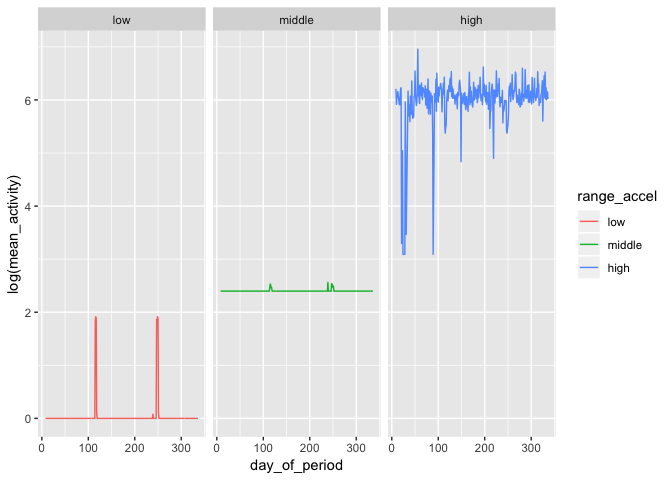
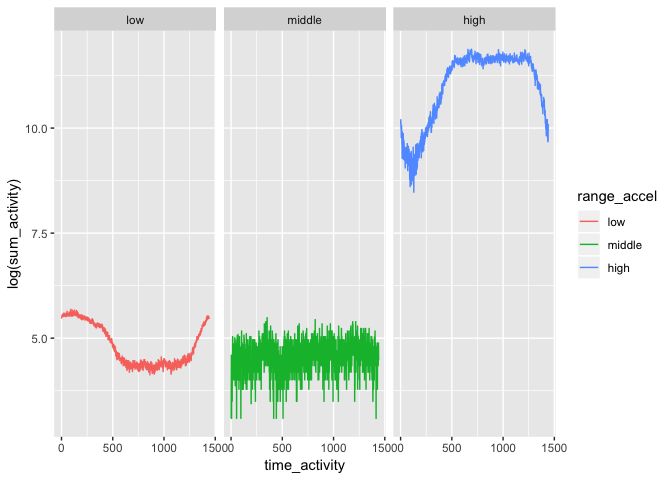
suvived from sierra updating
start to make final report

diff --git a/p8105_mtp_zf2213.md b/p8105_mtp_zf2213.md
@@ -3,6 +3,8 @@ p8105 midterm project
 Zanis Fang, UID: ZF2213
 10/16/2018
 
+**three or four figures would be enough**
+
 ### loading data
 
 ``` r
@@ -124,6 +126,30 @@ acc_subgroup %>%
 ![](p8105_mtp_zf2213_files/figure-markdown_github/cutoff-1.png)
 
 ``` r
+# across a day, sum
+acc_subgroup %>%
+    group_by(time_activity, range_accel) %>% 
+    summarize(sum_activity = sum(accel)) %>% 
+    ggplot(aes(x = time_activity, y = log(sum_activity), group = range_accel, color = range_accel)) +
+      geom_line() +
+      facet_grid(. ~ range_accel)
+```
+
+![](p8105_mtp_zf2213_files/figure-markdown_github/cutoff-2.png)
+
+``` r
+# across a day, middle
+acc_tidy %>%
+    filter(accel > 8, accel < 64) %>%
+    group_by(time_activity) %>% 
+    summarize(sum_activity = sum(accel)) %>% 
+    ggplot(aes(x = time_activity, y = sum_activity)) +
+      geom_line()
+```
+
+![](p8105_mtp_zf2213_files/figure-markdown_github/cutoff-3.png)
+
+``` r
 # middle and low fraction are fluctrating
 
 # across day of the period, mean
@@ -135,7 +161,7 @@ acc_subgroup %>%
       facet_grid(. ~ range_accel)
 ```
 
-![](p8105_mtp_zf2213_files/figure-markdown_github/cutoff-2.png)
+![](p8105_mtp_zf2213_files/figure-markdown_github/cutoff-4.png)
 
 ``` r
 # across day of the period, sum
@@ -150,7 +176,7 @@ acc_subgroup %>%
 
     ## `geom_smooth()` using method = 'loess' and formula 'y ~ x'
 
-![](p8105_mtp_zf2213_files/figure-markdown_github/cutoff-3.png)
+![](p8105_mtp_zf2213_files/figure-markdown_github/cutoff-5.png)
 
 ``` r
 # across day of the period, sum not log
@@ -160,12 +186,19 @@ acc_subgroup %>%
     ggplot(aes(x = day_of_period, y = sum_activity, group = range_accel, color = range_accel)) +
       geom_line() +
       geom_smooth() +
-      facet_grid(. ~ range_accel)
+      facet_grid(. ~ range_accel) +
+      ylim(0, 2000)
 ```
 
     ## `geom_smooth()` using method = 'loess' and formula 'y ~ x'
 
-![](p8105_mtp_zf2213_files/figure-markdown_github/cutoff-4.png)
+    ## Warning: Removed 302 rows containing non-finite values (stat_smooth).
+
+    ## Warning: Removed 196 rows containing missing values (geom_path).
+
+    ## Warning: Removed 4 rows containing missing values (geom_smooth).
+
+![](p8105_mtp_zf2213_files/figure-markdown_github/cutoff-6.png)
 
 ``` r
 # across week
@@ -180,7 +213,7 @@ acc_subgroup %>%
 
     ## `geom_smooth()` using method = 'loess' and formula 'y ~ x'
 
-![](p8105_mtp_zf2213_files/figure-markdown_github/cutoff-5.png)
+![](p8105_mtp_zf2213_files/figure-markdown_github/cutoff-7.png)
 
 ``` r
 # across week X day
@@ -195,4 +228,126 @@ acc_subgroup %>%
 
     ## `geom_smooth()` using method = 'loess' and formula 'y ~ x'
 
-![](p8105_mtp_zf2213_files/figure-markdown_github/cutoff-6.png)
+![](p8105_mtp_zf2213_files/figure-markdown_github/cutoff-8.png)
+
+``` r
+acc_subgroup %>% 
+    arrange(day_of_period)
+```
+
+    ## # A tibble: 473,760 x 8
+    ##     week day    time_activity accel  hour minute day_of_period range_accel
+    ##    <int> <fct>          <int> <dbl> <dbl>  <dbl>         <dbl> <fct>      
+    ##  1     1 Sunday             1     1     0      1             8 low        
+    ##  2     1 Sunday             2     1     0      2             8 low        
+    ##  3     1 Sunday             3     1     0      3             8 low        
+    ##  4     1 Sunday             4     1     0      4             8 low        
+    ##  5     1 Sunday             5     1     0      5             8 low        
+    ##  6     1 Sunday             6     1     0      6             8 low        
+    ##  7     1 Sunday             7     1     0      7             8 low        
+    ##  8     1 Sunday             8     1     0      8             8 low        
+    ##  9     1 Sunday             9     1     0      9             8 low        
+    ## 10     1 Sunday            10     1     0     10             8 low        
+    ## # ... with 473,750 more rows
+
+``` r
+a <- which(acc_subgroup$range_accel == "middle")
+
+for (i in 1:10) {
+     print(count(acc_subgroup[a + i, ], range_accel))
+    }
+```
+
+    ## # A tibble: 3 x 2
+    ##   range_accel     n
+    ##   <fct>       <int>
+    ## 1 low          5404
+    ## 2 middle        410
+    ## 3 high         7618
+    ## # A tibble: 3 x 2
+    ##   range_accel     n
+    ##   <fct>       <int>
+    ## 1 low          5310
+    ## 2 middle        394
+    ## 3 high         7728
+    ## # A tibble: 3 x 2
+    ##   range_accel     n
+    ##   <fct>       <int>
+    ## 1 low          5313
+    ## 2 middle        376
+    ## 3 high         7743
+    ## # A tibble: 3 x 2
+    ##   range_accel     n
+    ##   <fct>       <int>
+    ## 1 low          5433
+    ## 2 middle        437
+    ## 3 high         7562
+    ## # A tibble: 3 x 2
+    ##   range_accel     n
+    ##   <fct>       <int>
+    ## 1 low          5367
+    ## 2 middle        390
+    ## 3 high         7675
+    ## # A tibble: 3 x 2
+    ##   range_accel     n
+    ##   <fct>       <int>
+    ## 1 low          5343
+    ## 2 middle        366
+    ## 3 high         7723
+    ## # A tibble: 3 x 2
+    ##   range_accel     n
+    ##   <fct>       <int>
+    ## 1 low          5523
+    ## 2 middle        369
+    ## 3 high         7540
+    ## # A tibble: 3 x 2
+    ##   range_accel     n
+    ##   <fct>       <int>
+    ## 1 low          5476
+    ## 2 middle        393
+    ## 3 high         7563
+    ## # A tibble: 3 x 2
+    ##   range_accel     n
+    ##   <fct>       <int>
+    ## 1 low          5601
+    ## 2 middle        390
+    ## 3 high         7441
+    ## # A tibble: 3 x 2
+    ##   range_accel     n
+    ##   <fct>       <int>
+    ## 1 low          5629
+    ## 2 middle        374
+    ## 3 high         7429
+
+``` r
+count(acc_subgroup[a + 2, ], range_accel)
+```
+
+    ## # A tibble: 3 x 2
+    ##   range_accel     n
+    ##   <fct>       <int>
+    ## 1 low          5310
+    ## 2 middle        394
+    ## 3 high         7728
+
+``` r
+count(acc_subgroup[a + 3, ], range_accel)
+```
+
+    ## # A tibble: 3 x 2
+    ##   range_accel     n
+    ##   <fct>       <int>
+    ## 1 low          5313
+    ## 2 middle        376
+    ## 3 high         7743
+
+``` r
+count(acc_subgroup[a - 1, ], range_accel)
+```
+
+    ## # A tibble: 3 x 2
+    ##   range_accel     n
+    ##   <fct>       <int>
+    ## 1 low          5280
+    ## 2 middle        410
+    ## 3 high         7742
